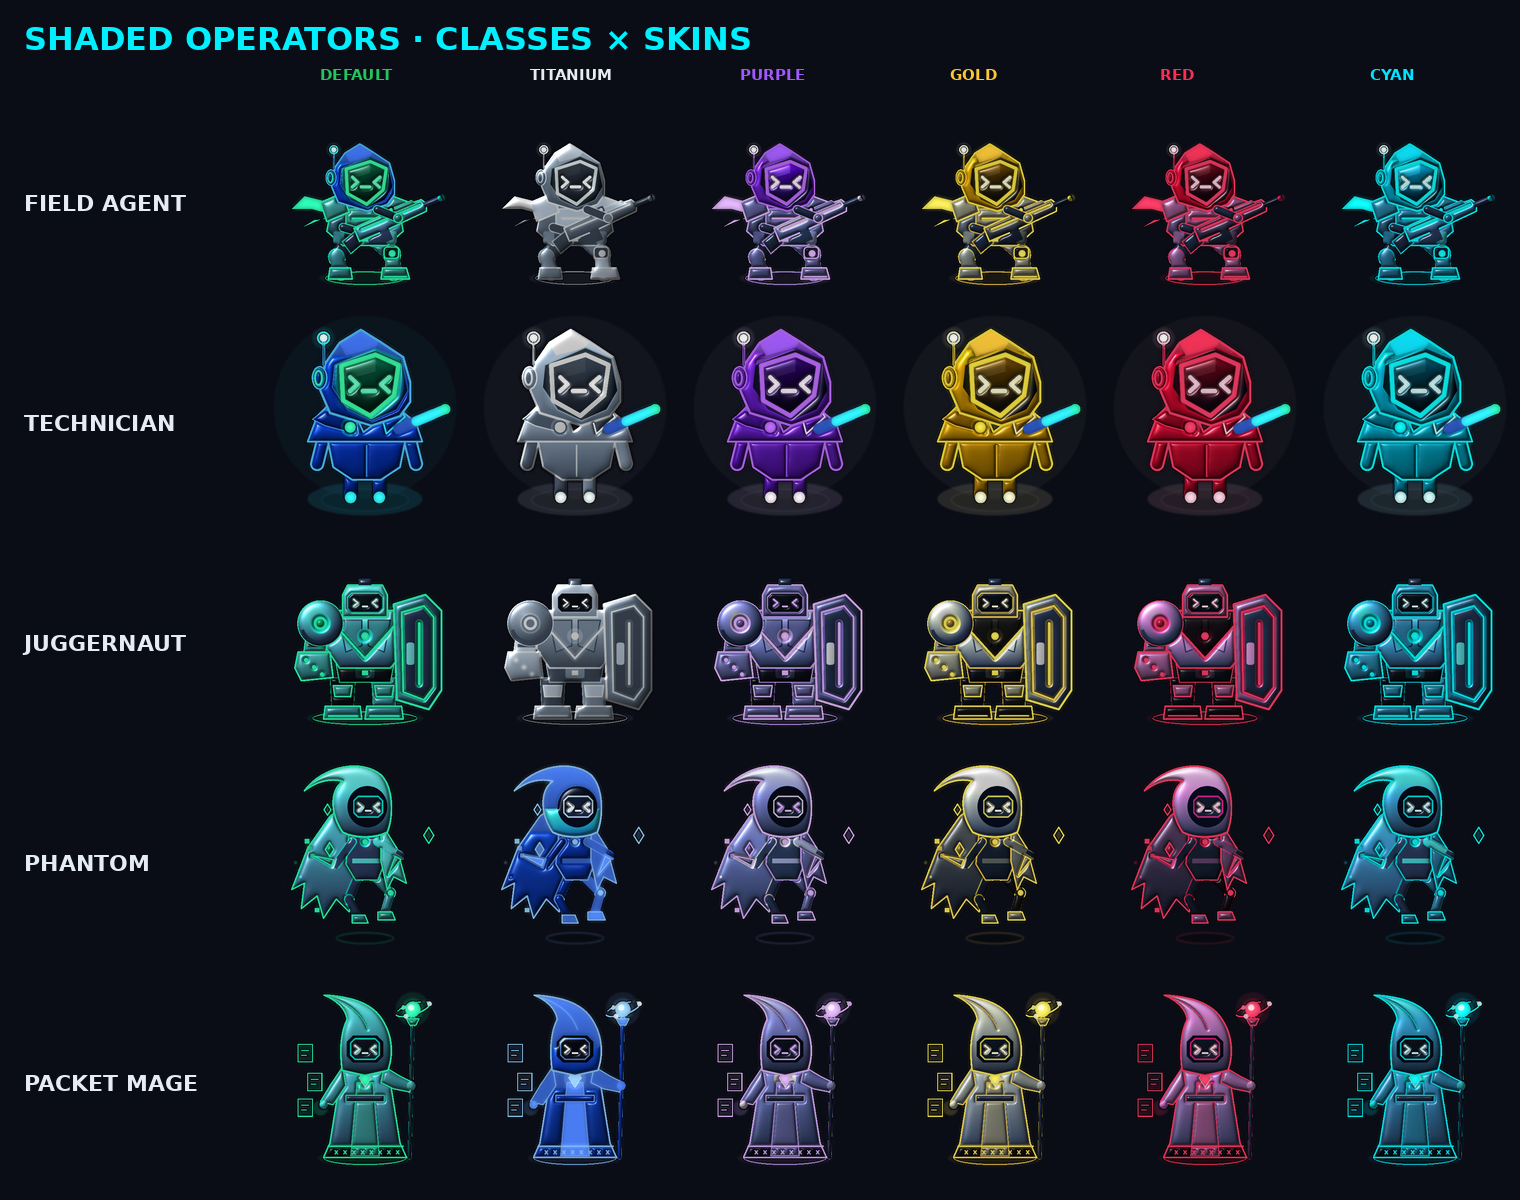
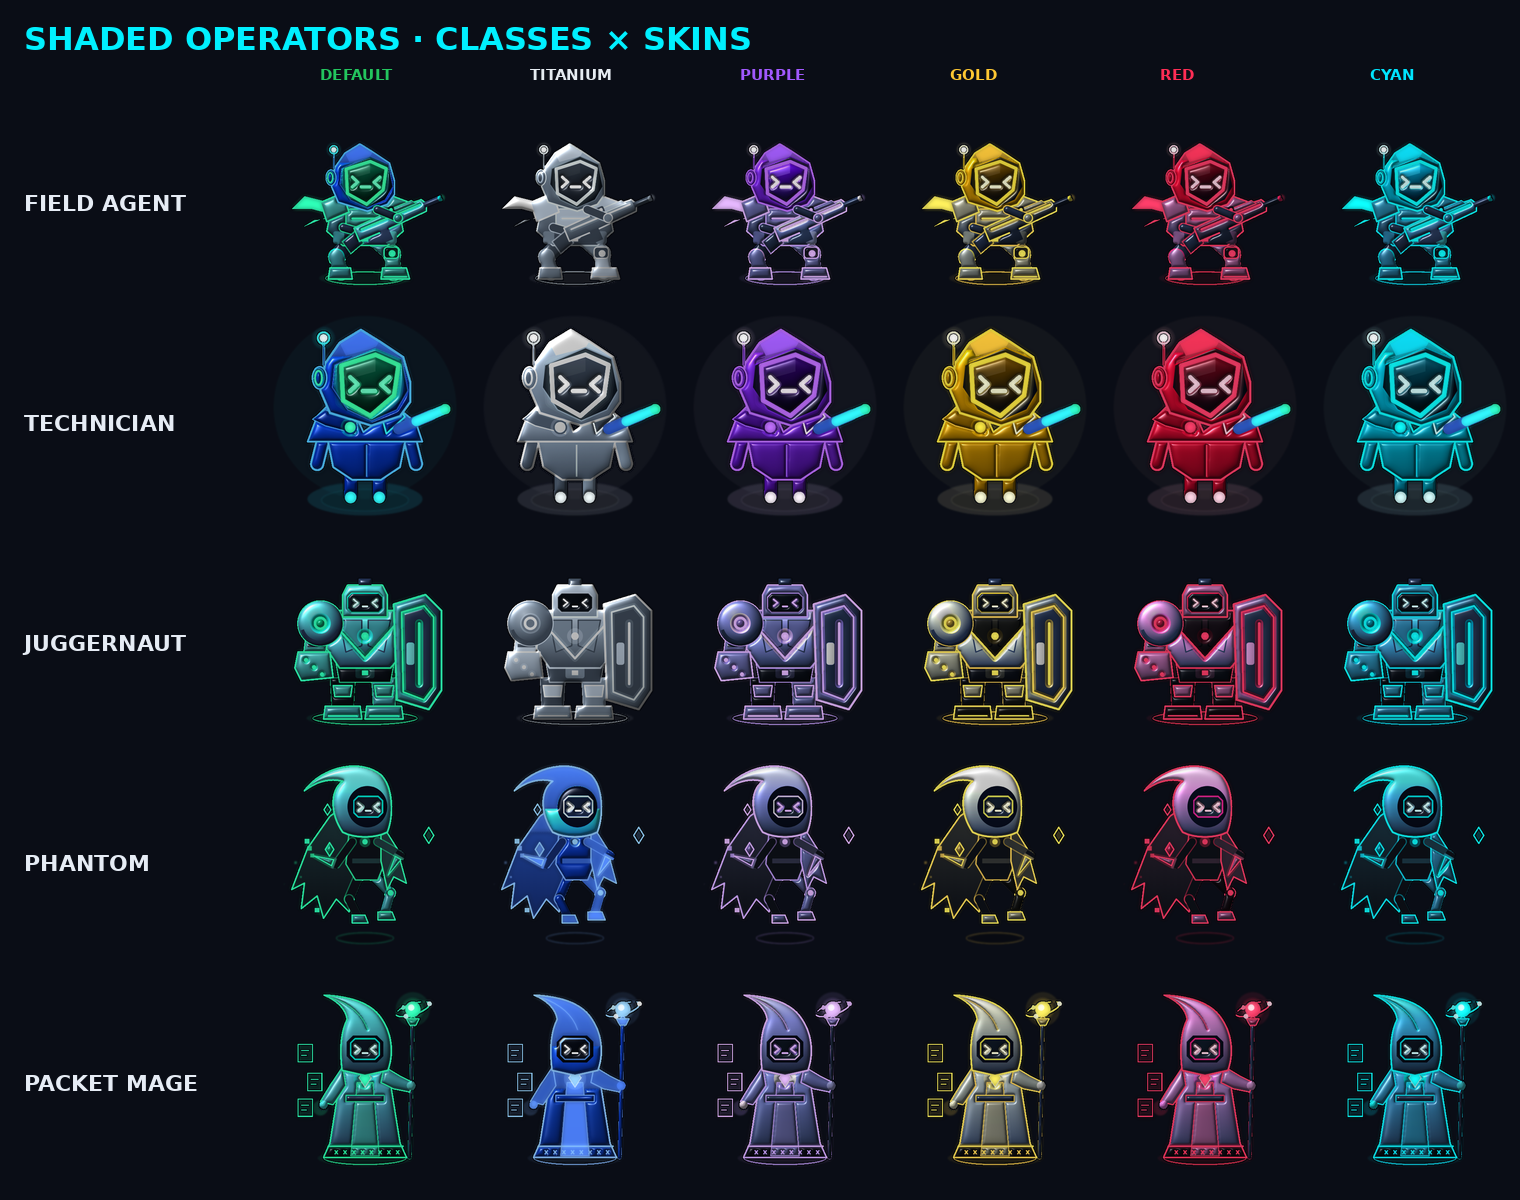
Operator concept v2: Phantom cape left unshaded (owner)
Claude-Session: https://claude.ai/code/session_01J4fYSi9rfQR62SLnfyrDCN

diff --git a/tools/operators/shade_operators.py b/tools/operators/shade_operators.py
@@ -26,7 +26,7 @@ LIGHT = np.array([-0.55, -0.7, 0.55]); LIGHT /= np.linalg.norm(LIGHT)
 HALF = LIGHT + np.array([0, 0, 1.0]); HALF /= np.linalg.norm(HALF)
 
 
-def shade(path):
+def shade(path, flat_cape=None):
     im = np.asarray(Image.open(path).convert("RGBA")).astype(np.float32) / 255.0
     rgb, a = im[..., :3], im[..., 3]
     H, W = a.shape
@@ -78,6 +78,13 @@ def shade(path):
     lit = base * (0.42 + 0.75 * diff)[..., None] * fall[..., None] * ao[..., None]
     lit = lit + (spec * np.where(visor, 0.6, 0.8))[..., None]
     out = np.where(fill[..., None], lit, 0)
+    # The Phantom's cape stays as it was, unshaded (owner, after the v2 sheets).
+    if flat_cape is None:
+        flat_cape = os.path.basename(path).startswith("phantom")
+    if flat_cape and n:
+        sizes = ndimage.sum(fill, labels, idx)
+        cape = labels == (int(np.argmax(sizes)) + 1)
+        out = np.where(cape[..., None], rgb, out)
 
     lines = np.where(line[..., None], np.clip(rgb * 1.12 + 0.05, 0, 1), 0)
     out = np.where(line[..., None], lines, out)
